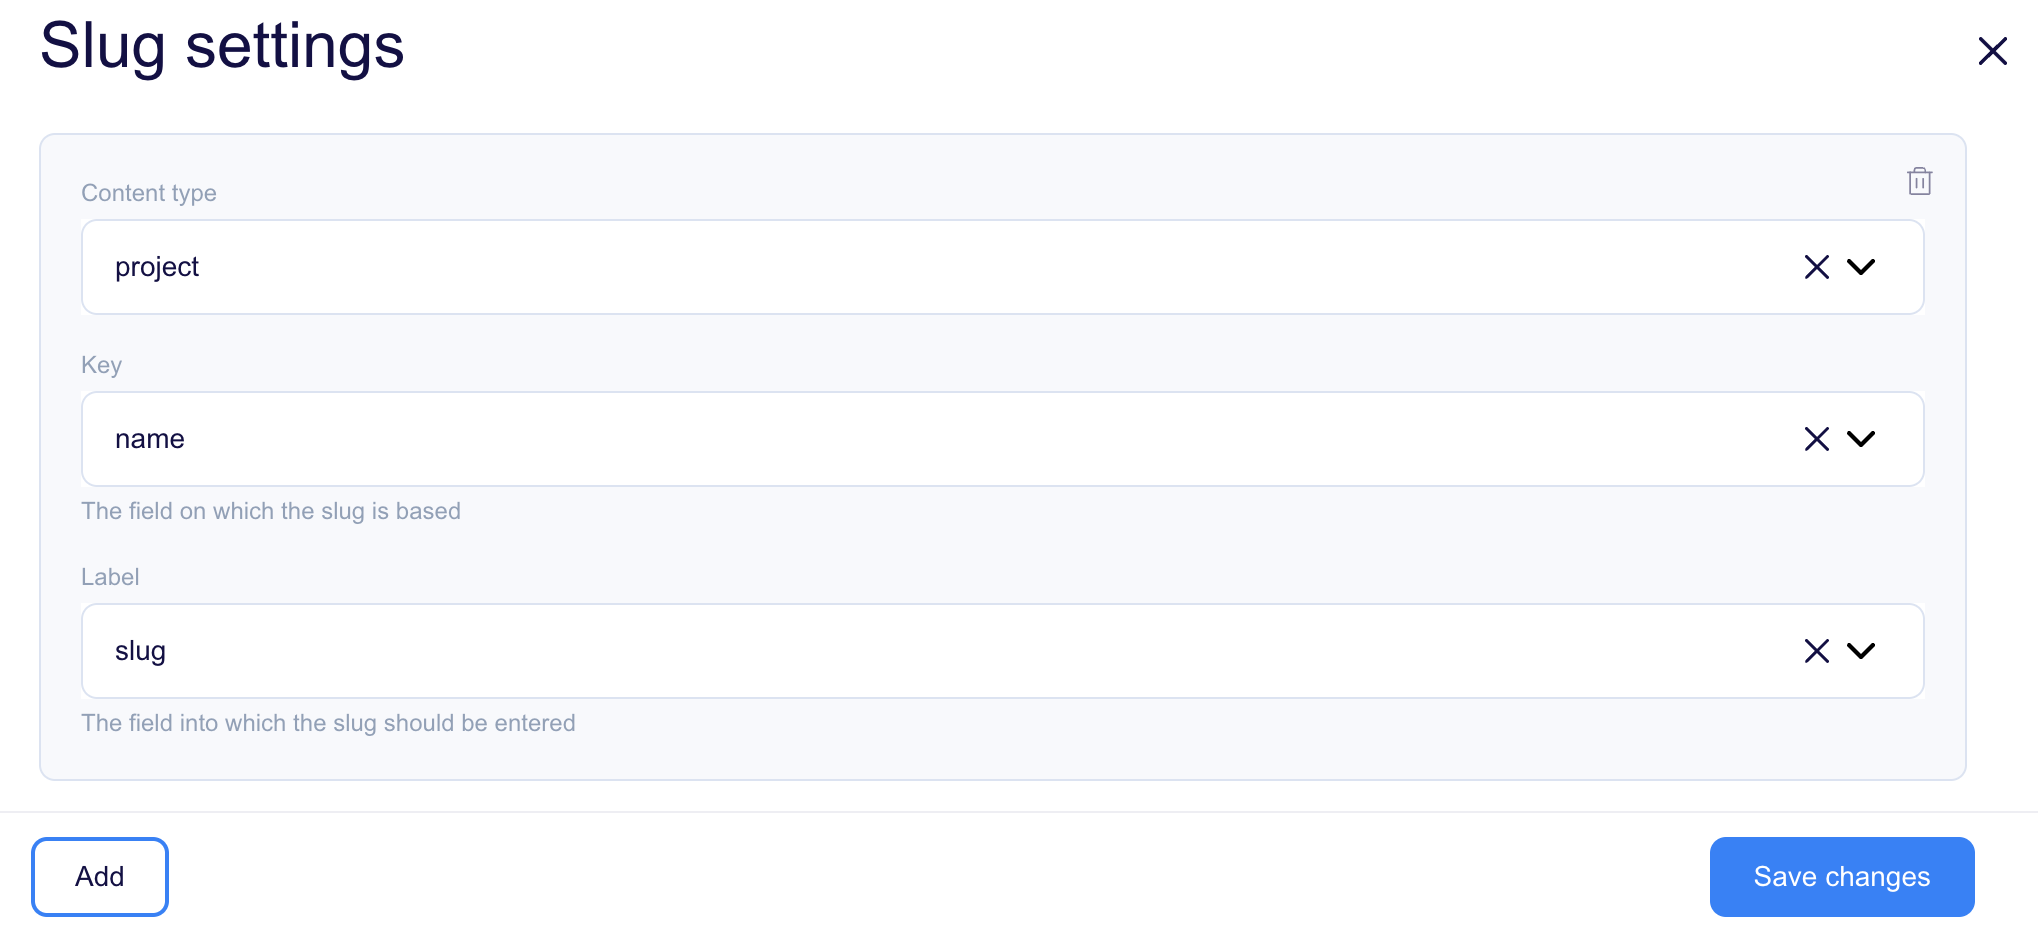
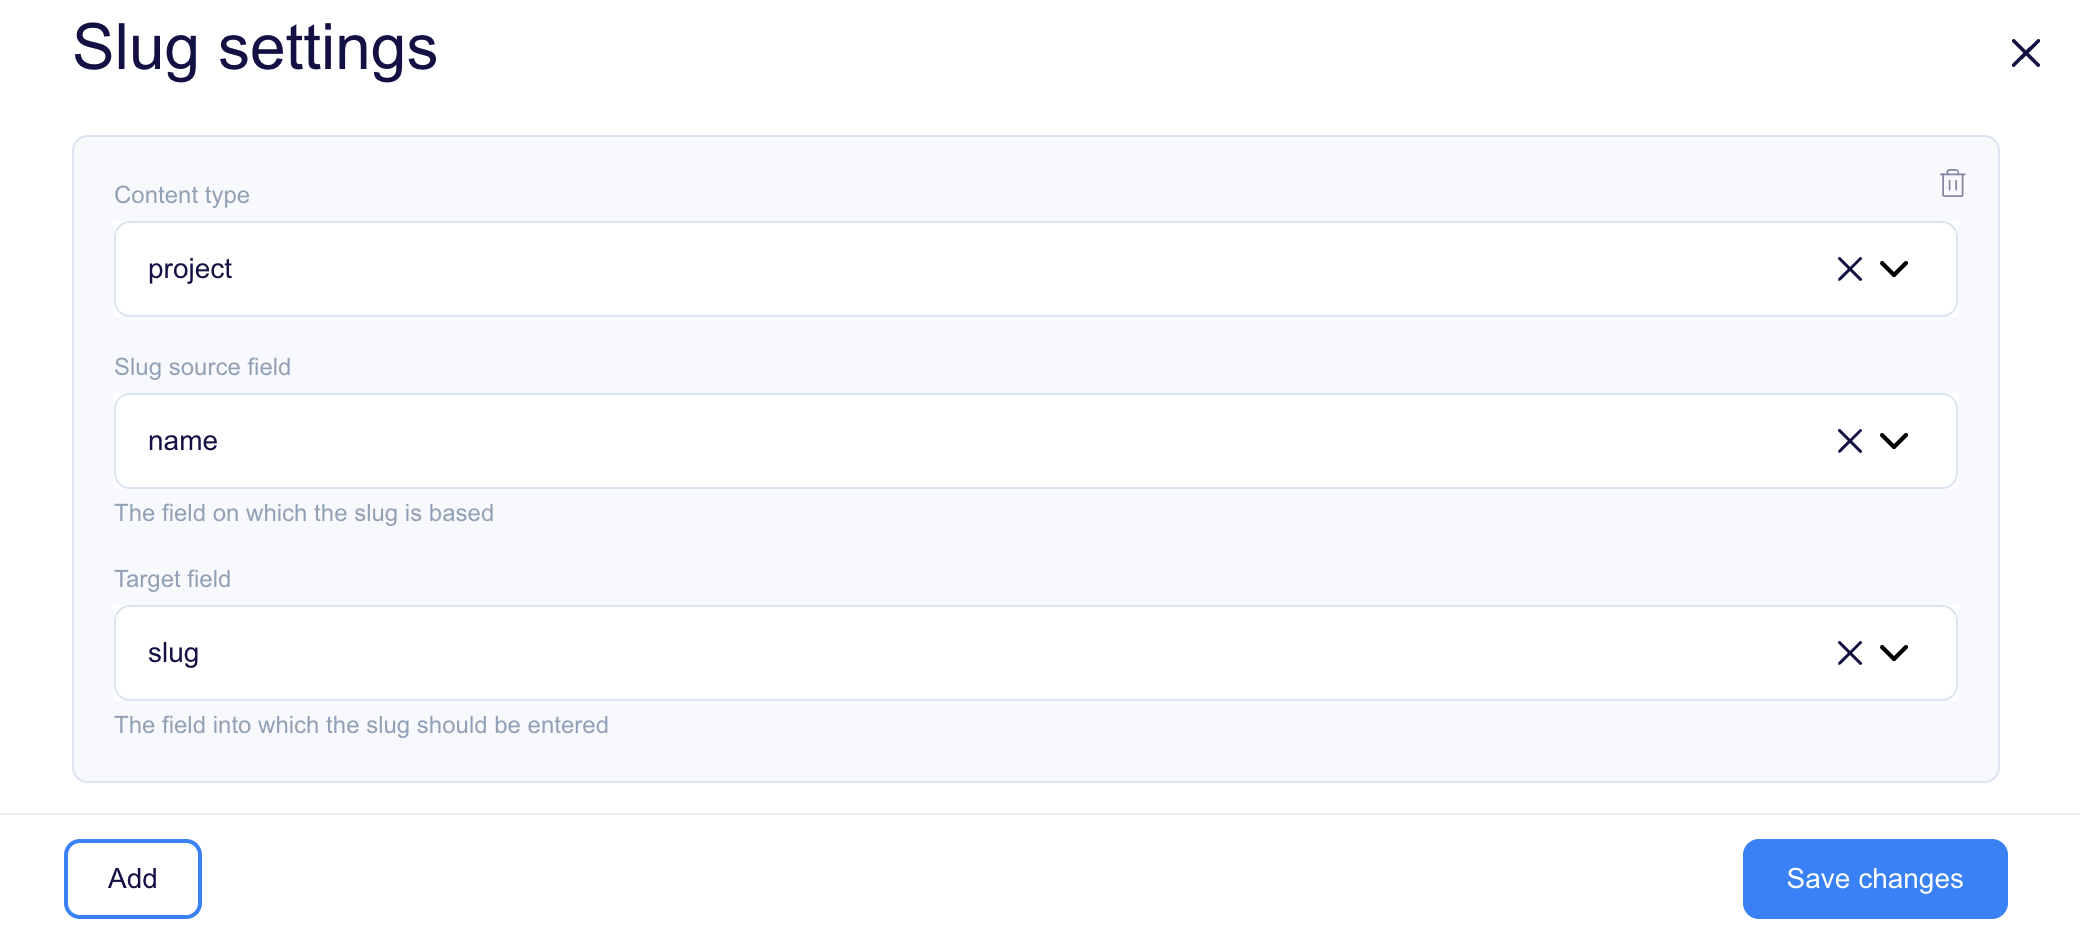
rename settings fields

diff --git a/src/i18n.js b/src/i18n.js
@@ -9,13 +9,9 @@ i18n.use(initReactI18next).init({
       translation: {
         Add: "Add",
         ContentType: "Content type",
-        Empty: 'There is no settings for this plugin',
+        Empty: "There is no settings for this plugin",
         FieldNotFound: "This field is no longer available",
         FieldRequired: "This value should not be blank",
-        Key: "Key",
-        KeyHelpText: "The field on which the slug is based",
-        Label: "Label",
-        LabelHelpText: "The field into which the slug should be entered",
         NoContentTypes: "There is no content types",
         NoFields:
           "Make sure the selected content type contains fields that can be used in the plugin. Allowed types: text, textarea, email, radio, select, date time",
@@ -23,20 +19,20 @@ i18n.use(initReactI18next).init({
         SavingError:
           "Something occured while updating plugin settings. Check console for more informations",
         Settings: "Settings",
-        Unique: "The label cannot be the same field as the key",
+        Source: "Slug source field",
+        SourceHelpText: "The field on which the slug is based",
+        Target: "Target field",
+        TargetHelpText: "The field into which the slug should be entered",
+        Unique: "The target cannot be the same field as the slug source",
       },
     },
     pl: {
       translation: {
         Add: "Dodaj",
         ContentType: "Definicja typu",
-        Empty:'Nie dodano żadnych ustawień do tego pluginu',
+        Empty: "Nie dodano żadnych ustawień do tego pluginu",
         FieldNotFound: "To pole nie jest już dostępne",
         FieldRequired: "Ta wartość nie powinna być pusta",
-        Key: "Klucz",
-        KeyHelpText: "Pole, na którym bazuje slug",
-        Label: "Opis",
-        LabelHelpText: "Pole, do którego slug zostanie wpisany",
         NoContentTypes: "Nie znaleziono definicji typu",
         NoFields:
           "Upewnij się, że wybrany typ definicji zawiera pola, które mogą być wykorzystane we wtyczce. Dozwolone typy: tekst, długie pole tekstowe, email, pole wyboru, lista rozwijana, data i czas.",
@@ -44,7 +40,11 @@ i18n.use(initReactI18next).init({
         SavingError:
           "Coś poszło nie tak podczas zapisywania ustawień wtyczki. Sprawdź konsolę, aby uzyskać więcej informacji",
         Settings: "Ustawienia",
-        Unique: "Opis nie może być tym samym polem, co klucz",
+        Source: "Pole źródłowe sluga",
+        SourceHelpText: "The field on which the slug is based",
+        Target: "Pole docelowe",
+        TargetHelpText: "Pole, do którego slug zostanie wpisany",
+        Unique: "Pole docelowe nie może być tym samym polem, co źródło sluga",
       },
     },
   },

diff --git a/src/plugins/formFieldConfig.js b/src/plugins/formFieldConfig.js
@@ -2,8 +2,8 @@ import slug from "slug";
 import { addElementToCache, getCachedElement } from "../common/plugin-helpers";
 
 const regenerate = (formik, fieldName, slugFieldName) => {
-  const keyValue = formik.values[slugFieldName];
-  if (keyValue) formik.setFieldValue(fieldName, slug(keyValue));
+  const source = formik.values[slugFieldName];
+  if (source) formik.setFieldValue(fieldName, slug(source));
 };
 
 const handleCoForm = (
@@ -11,21 +11,19 @@ const handleCoForm = (
   slugSettings,
   pluginInfo
 ) => {
-  const settingsForKeyField = slugSettings
-    .filter(({ key }) => key === name)
-    .map(({ label }) => label);
+  const sourceSettings = slugSettings
+    .filter(({ source }) => source === name)
+    .map(({ target }) => target);
 
-  const settingsForLabelField = slugSettings.find(
-    ({ label }) => label === name
-  );
+  const targetSettings = slugSettings.find(({ target }) => target === name);
 
-  if (!isEditing && settingsForKeyField.length) {
+  if (!isEditing && sourceSettings.length) {
     config.onBlur = (e) => {
-      settingsForKeyField.forEach((fieldName) => {
-        const labelType =
+      sourceSettings.forEach((fieldName) => {
+        const targetType =
           contentType.schemaDefinition.allOf[1].properties?.[fieldName]?.type;
 
-        if (formik.values[fieldName] || labelType !== "string") return;
+        if (formik.values[fieldName] || targetType !== "string") return;
 
         const newValue = slug(value);
         formik.setFieldValue(fieldName, newValue);
@@ -35,7 +33,7 @@ const handleCoForm = (
     };
   }
 
-  if (settingsForLabelField) {
+  if (targetSettings) {
     const cacheKey = `${pluginInfo.id}-${contentType.name}-${name}`;
     const cacheEntry = getCachedElement(cacheKey);
 
@@ -48,7 +46,7 @@ const handleCoForm = (
       const cacheData = {
         formik,
         fieldName: name,
-        slugFieldName: settingsForLabelField.key,
+        slugFieldName: targetSettings.source,
       };
 
       const button = document.createElement("button");

diff --git a/src/components/SettingsField/SettingsItem/SettingsItem.js b/src/components/SettingsField/SettingsItem/SettingsItem.js
@@ -26,8 +26,8 @@ const SettingsItem = ({
 
       setSelectedType((prevCtd) => {
         if (prevCtd !== ctdName) {
-          formik.setFieldValue(`settings[${idx}].key`, "");
-          formik.setFieldValue(`settings[${idx}].label`, "");
+          formik.setFieldValue(`settings[${idx}].source`, "");
+          formik.setFieldValue(`settings[${idx}].target`, "");
         }
         return ctdName;
       });
@@ -62,7 +62,7 @@ const SettingsItem = ({
           search
         />
 
-        <Field name={`settings[${idx}].key`}>
+        <Field name={`settings[${idx}].source`}>
           {({ field, meta }) => {
             return (
               <Dropdown
@@ -74,17 +74,17 @@ const SettingsItem = ({
                 value={field.value}
                 onChange={field.onChange}
                 onBlur={field.onBlur}
-                label={t("Key")}
+                label={t("Source")}
                 disabled={disabled}
                 emptyText={t("NoFields")}
-                helpText={t("KeyHelpText")}
+                helpText={t("SourceHelpText")}
                 error={meta.touched && meta.error}
               />
             );
           }}
         </Field>
 
-        <Field name={`settings[${idx}].label`}>
+        <Field name={`settings[${idx}].target`}>
           {({ field, meta }) => {
             return (
               <Dropdown
@@ -96,10 +96,10 @@ const SettingsItem = ({
                 value={field.value}
                 onChange={field.onChange}
                 onBlur={field.onBlur}
-                label={t("Label")}
+                label={t("Target")}
                 disabled={disabled}
                 emptyText={t("NoFields")}
-                helpText={t("LabelHelpText")}
+                helpText={t("TargetHelpText")}
                 error={meta.touched && meta.error}
                 isTop
               />

diff --git a/src/components/ManageContent/ManageContent.js b/src/components/ManageContent/ManageContent.js
@@ -38,20 +38,20 @@ const ManageContent = ({
         settings: yup.array().of(
           yup.object().shape({
             content_type: yup.string().required(t("FieldRequired")),
-            key: yup
+            source: yup
               .string()
               .required(t("FieldRequired"))
               .test({
-                name: "key",
+                name: "source",
                 message: t("FieldNotFound"),
                 test: (value, context) =>
                   ctdFieldsDict?.[context.parent.content_type]?.includes(value),
               }),
-            label: yup
+            target: yup
               .string()
               .required(t("FieldRequired"))
               .test({
-                name: "label",
+                name: "target",
                 message: t("FieldNotFound"),
                 test: (value, context) =>
                   ctdFieldsDict?.[context.parent.content_type]?.includes(value),

diff --git a/src/plugins/migrate.js b/src/plugins/migrate.js
@@ -1,0 +1,33 @@
+import semver from "semver";
+
+const settingsMigrations = [
+  {
+    from: "1.0.1",
+    to: "1.1.0",
+    migration: async (settings) =>
+      settings.map(({ content_type, key, label }) => ({
+        content_type: content_type,
+        source: key,
+        target: label,
+      })),
+  },
+];
+
+export const handleMigrate = async ({ previousVersion }) => {
+  let settings = previousVersion.settings
+    ? JSON.parse(previousVersion.settings)
+    : [];
+
+  let versionNumber = previousVersion.version;
+  let migration;
+
+  const isNext = (m) =>
+    semver.gte(m.from, versionNumber) && semver.lt(versionNumber, m.to);
+
+  while ((migration = settingsMigrations.find(isNext))) {
+    settings = await migration.migration(settings);
+    versionNumber = migration.to;
+  }
+
+  return JSON.stringify(settings);
+};

diff --git a/src/index.js b/src/index.js
@@ -1,7 +1,8 @@
 import { registerFn } from "./common/plugin-helpers";
 import { handleManagePlugin, loadManagePlugin } from "./plugins/managePlugin";
 import { handleFormFieldConfig } from "./plugins/formFieldConfig";
-import pluginInfo from './plugin-manifest.json'
+import { handleMigrate } from "./plugins/migrate";
+import pluginInfo from "./plugin-manifest.json";
 
 /* eslint import/no-webpack-loader-syntax: off */
 import cssString from "!!raw-loader!./styles/index.css";
@@ -31,6 +32,9 @@ registerFn(pluginInfo, (handler, client, { toast, getLanguage }) => {
   );
   handler.on("flotiq.form.field::config", (data) =>
     handleFormFieldConfig(data, pluginInfo)
+  );
+  handler.on("flotiq.plugin::migrate", (data) =>
+    handleMigrate(data, pluginInfo)
   );
 });
 

diff --git a/src/components/SettingsField/SettingsField.js b/src/components/SettingsField/SettingsField.js
@@ -20,8 +20,8 @@ const SettingsField = ({
   const onAddSetting = useCallback(() => {
     arrayHelpers.push({
       content_type: "",
-      key: "",
-      label: "",
+      source: "",
+      target: "",
     });
   }, [arrayHelpers]);
 

diff --git a/README.md b/README.md
@@ -17,8 +17,8 @@ To manage a plugin, you must first add it to your plugins. Click the "+" icon to
 Field descriptions: 
 
 * `Content Type` - Defines the type of objects for which the slug will be generated.
-* `Key` - Determines the field on which the slug will be based.
-* `Label` - Specifies the field to which the slug will be entered.
+* `Slug source field` - Determines the field on which the slug will be based.
+* `Target field` - Specifies the field to which the slug will be entered.
 
 # Development
 
